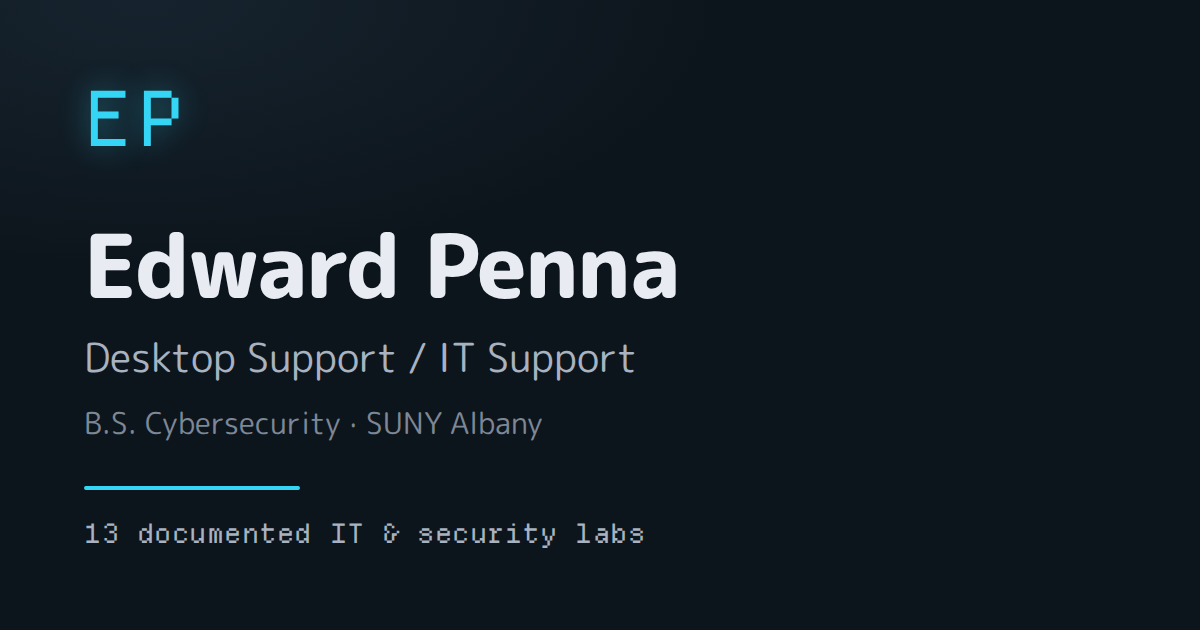
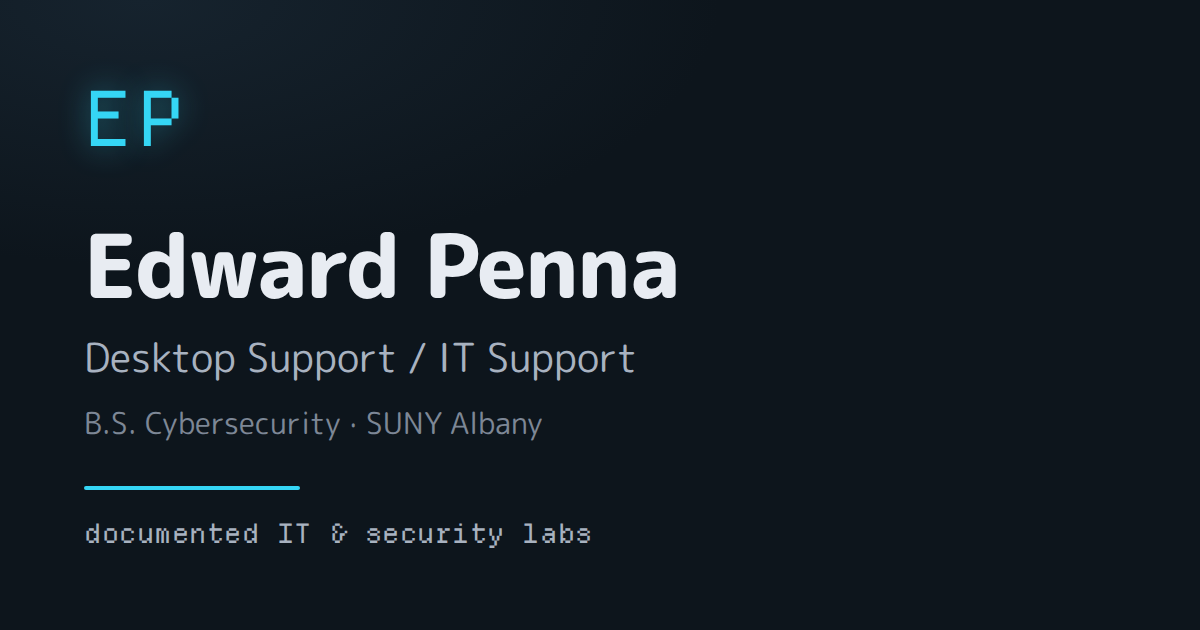
Copy that does not go stale, and a plainer name chip
Nine places shipped a hard count — "thirteen labs", "six builds", "13 entries"
— plus a claim the work was done by hand. Every one was a line that quietly
became wrong on the next push, and none of them look wrong while they are still
true. It was also a boast about an amount rather than a statement of what the
work is, which is not what the site should be saying on his behalf.

So publish.sh gains check 14 rather than a resolution: shipped prose may not
pair a number with labs/builds/projects, or claim it was built by hand or from
scratch. Proven red first — it found all eight static sites, including both
meta descriptions, which are the version a recruiter sees in a search result
and the last place a stale number should survive. Comments, project data and
this script are exempt; a gate that flags legitimate text gets skipped.

The ninth was invisible to any grep: the root cards' chip read "13 entries" and
was built by JavaScript at runtime. grid-test.mjs covers that half, along with
the pitch line and a word-count ceiling on About.

The About panel was 213 words in five paragraphs and read as machine-written.
Five drafts were written independently and critiqued; every one of them opened
on "Right now I'm building an osTicket helpdesk", which is the same trap — it
needs rewriting the week that lab is done. The version here is 125 words, names
nothing that expires, and carries the enthusiasm through what he is doing
[…]

Changed region(s): [[0.2158, 0.8143, 0.555, 0.8746], [0.0617, 0.8143, 0.185, 0.8746]]

diff --git a/index.html b/index.html
@@ -4,7 +4,7 @@
 <meta charset="utf-8">
 <meta name="viewport" content="width=device-width, initial-scale=1">
 <title>Edward Penna — Desktop Support &amp; IT</title>
-<meta name="description" content="Edward Penna — Desktop Support / IT Support. B.S. Cybersecurity, SUNY Albany. Thirteen documented IT and security labs: helpdesk ticketing, Active Directory, PowerShell, Linux, Docker, monitoring, backup/DR and security operations.">
+<meta name="description" content="Edward Penna — Desktop Support / IT Support. B.S. Cybersecurity, SUNY Albany. Documented IT and security labs: helpdesk ticketing, Active Directory, PowerShell, Linux, Docker, monitoring, backup/DR and security operations.">
 <meta name="author" content="Edward Penna">
 
 <!-- Absolute, because scrapers do not resolve relative og: values. If this ever
@@ -30,7 +30,7 @@
 <meta property="og:type" content="website">
 <meta property="og:url" content="https://wardoep.github.io/portfolio/">
 <meta property="og:title" content="Edward Penna — Desktop Support &amp; IT">
-<meta property="og:description" content="Desktop Support / IT Support. B.S. Cybersecurity, SUNY Albany. Thirteen IT and security labs, each documented as a reproducible runbook.">
+<meta property="og:description" content="Desktop Support / IT Support. B.S. Cybersecurity, SUNY Albany. IT and security labs, each documented as a reproducible runbook.">
 <meta property="og:image" content="https://wardoep.github.io/portfolio/assets/img/og-card.png">
 <meta property="og:image:width" content="1200">
 <meta property="og:image:height" content="630">
@@ -126,24 +126,12 @@
 
 <!-- ─── header ─────────────────────────────────────────────────────────── -->
 <header class="hud">
+  <!-- Name, then a small glyph. The hand-drawn avatar and the role line that
+       used to be here are gone: the reference for this is a plain account chip,
+       and "simpler" was the whole ask. Still a real button opening About. -->
   <button class="user" type="button" data-open="about" aria-label="Edward Penna — open About">
-    <span class="user__face">
-      <!-- Hand-drawn avatar. Edit the six values in :root to change it. -->
-      <svg viewBox="0 0 64 64" role="img" aria-hidden="true" focusable="false">
-        <rect class="av-bg" x="0" y="0" width="64" height="64" rx="10"/>
-        <ellipse class="av-skin" cx="32" cy="34" rx="17" ry="19"/>
-        <path class="av-ear" d="M15 32c-3 0-4 2-3.5 4.5S14 40 16 39zM49 32c3 0 4 2 3.5 4.5S50 40 48 39z"/>
-        <path class="av-hair" d="M14 30c0-11 8-17 18-17s18 6 18 17c0 0-2-7-8-8-4.5-.8-8 1.5-13 1-4-.4-6.5 1.6-8 4-1 1.6-1.3 3-1.3 3z"/>
-        <ellipse class="av-eye" cx="25" cy="34" rx="2.4" ry="3"/>
-        <ellipse class="av-eye" cx="39" cy="34" rx="2.4" ry="3"/>
-        <path class="av-brow" d="M21.5 28.5c2-1.4 5-1.4 7 0M35.5 28.5c2-1.4 5-1.4 7 0"/>
-        <path class="av-mouth" d="M27 43.5c2.6 2.4 7.4 2.4 10 0"/>
-      </svg>
-    </span>
-    <span class="user__plate">
-      <strong class="user__name">Edward Penna</strong>
-      <span class="user__role">Desktop Support / IT</span>
-    </span>
+    <span class="user__name">Edward Penna</span>
+    <svg class="ico user__glyph" viewBox="0 0 24 24" aria-hidden="true"><use href="#i-person"/></svg>
   </button>
 
 
@@ -227,11 +215,14 @@
     <h2 id="h-about">About</h2>
   </div>
   <div class="panel__body prose">
-    <p class="lead">Hi — I'm Edward.</p>
-    <p>I like the part of this work most people find annoying: something is broken, nobody knows why, and you have to work backwards until it makes sense. That instinct turned into a cybersecurity degree from the University at Albany, a summer on the front line of a hospital help desk, and a Linux server at home that I have been quietly keeping alive for a couple of years.</p>
-    <p>That server is where most of what I actually know came from. Not from tutorials — from a backup that didn't restore, a service that died quietly and stayed dead for two days before I noticed, a certificate that expired at the worst possible moment. Everything on this site is built the same way: stand it up, break it on purpose, fix it, then write it down well enough that I could rebuild it from the notes.</p>
-    <p>The other half of the job is people. I'm patient with someone who is frustrated with their computer, I explain things without making anyone feel stupid, and I would rather ask a question than guess and be wrong twice.</p>
-    <p>Right now I'm looking for a first full-time role in desktop or IT support, and studying for CompTIA Network+.</p>
+    <!-- Was five paragraphs and 230 words. It named a count of labs, so it went
+         out of date on every push, and it was built out of the constructions
+         that give generated text away: "Not from tutorials — from a backup
+         that…", a three-clause list, "The other half of the job is people."
+         Nothing here needs editing when the next repo lands. -->
+    <p class="lead">I build IT labs and write each one up so someone else could follow it. One's an osTicket helpdesk with SLAs and email piping that I've worked tickets through. There's usually another one half-built.</p>
+    <p>I've had a Linux server at home for a couple of years and it has to stay up. My first restic restore drill didn't restore anything. I fixed it and wrote down what I'd missed.</p>
+    <p>I'm after my first full-time job in desktop support or helpdesk. Degree's in cybersecurity from SUNY Albany and I'm studying for Network+. I did a summer at Broadridge on access reviews and audit prep, and before that I volunteered in IT at Stony Brook Hospital, mostly logins and broken hardware.</p>
     <p class="cta-row">
       <a class="btn btn--primary" href="resume.html">Read the résumé</a>
       <a class="btn" href="#/now">What I'm learning</a>
@@ -298,7 +289,7 @@
       <li>B.S. Cybersecurity, University at Albany, May 2025. Studying for CompTIA Network+.</li>
       <li>IT Support Volunteer, Stony Brook Hospital (summer 2023) — login, access, hardware and software issues, tracked through tickets.</li>
       <li>Summer Consultant, Broadridge (2024) — information security: access reviews and audit preparation.</li>
-      <li>Thirteen documented labs: osTicket helpdesk, Active Directory, PowerShell, Docker, monitoring, backup/DR and security operations.</li>
+      <li>Documented labs covering osTicket helpdesk, Active Directory, PowerShell, Docker, monitoring, backup/DR and security operations.</li>
       <li>A self-hosted Linux server running production-style services with real uptime requirements.</li>
     </ul>
   </div>
@@ -372,12 +363,17 @@
         <rect class="boot__warn-bar" x="11" y="9" width="2" height="6" rx="1"/>
         <rect class="boot__warn-bar" x="11" y="16.5" width="2" height="2" rx="1"/>
       </svg>
-      <span>NOTICE &mdash; EDWARD PENNA</span>
+      <span>NOTICE FROM EDWARD PENNA</span>
     </span>
+    <!-- The old body broke the count rule twice and claimed the work was done
+         by hand. "WORK CONTINUES DURING NORMAL OPERATION" says he is still
+         building without naming an amount, a date or a boast — and unlike
+         "NONE OF IT IS FINISHED", a hiring manager cannot read it as
+         "nothing works". -->
     <span class="boot__body">
-      EVERYTHING BEYOND THIS SCREEN WAS BUILT, BROKEN<br>
-      AND WRITTEN UP BY HAND. THIRTEEN LABS, SIX BUILDS,<br>
-      ONE SERVER THAT HAS TO STAY UP.
+      MOST OF THIS BROKE BEFORE IT WORKED.<br>
+      THE FIX IS WRITTEN DOWN SO IT CAN BE REPEATED.<br>
+      WORK CONTINUES DURING NORMAL OPERATION.
     </span>
     <span class="boot__also">Also online at</span>
     <span class="boot__url">github.com/wardoep</span>

diff --git a/assets/css/menu.css b/assets/css/menu.css
@@ -103,69 +103,46 @@ a { color: inherit; }
   padding: 10px clamp(12px, 2.5vw, 28px);
 }
 
-/* ── the identity tile ────────────────────────────────────────────────────
- * A portrait in a square, the way the reference puts the account in its own
- * corner tile. It used to be a soft white pill with two lines of text beside
- * it — rounded and pastel in a design that is otherwise hard rectangles, and
- * the one thing left on screen still speaking the old language.
+/* ── the name chip ────────────────────────────────────────────────────────
+ * A name and a small glyph in a flat box. It has been, in order: a soft pastel
+ * pill, then a portrait tile, then a miniature channel card — each one more
+ * elaborate than the last for something whose entire job is to say whose site
+ * this is and open About.
  *
- * It is a channel tile in miniature: same radius, same ink fill, same flip on
- * hover. The name stays, small, underneath — a console already knows who you
- * are and a visitor does not. */
+ * So: no portrait, no role line, no sheen. The 2px rule and the radius are the
+ * only things tying it to the wall, which is enough. */
 .user {
-  display: flex; align-items: center; gap: 11px;
-  padding: 8px 16px 8px 8px;
+  display: inline-flex; align-items: center; gap: 10px;
+  padding: 7px 12px;
   color: var(--card-projects-ink);
   background: var(--card-projects);
-  background-image: var(--card-sheen);
-  border: 3px solid var(--card-rule); border-radius: var(--r-tile);
+  border: 2px solid var(--card-rule); border-radius: var(--r-sm);
   cursor: pointer; font: inherit; text-align: left;
   position: relative;
   transition: transform var(--d-fast) var(--ease);
 }
+.user__glyph { width: 17px; height: 17px; flex: none; stroke-width: 2; opacity: .85; }
 .user::after {
   content: '';
-  position: absolute; inset: -3px;
+  position: absolute; inset: -2px;
   border-radius: inherit;
-  box-shadow: 0 0 0 3px var(--ground), 0 0 0 6px var(--card-rule),
-              0 10px 22px rgb(0 0 0 / .25);
+  box-shadow: 0 0 0 2px var(--ground), 0 0 0 4px var(--card-rule);
   opacity: 0; pointer-events: none;
   transition: opacity var(--d-fast) var(--ease);
 }
 .user:hover, .user:focus-visible { transform: translateY(-2px); }
 .user:hover::after, .user:focus-visible::after { opacity: 1; }
-.user:focus-visible { outline: 3px solid var(--card-projects-ink); outline-offset: -7px; }
+.user:focus-visible { outline: 3px solid var(--card-projects-ink); outline-offset: -6px; }
 
-/* A circle, like every other card's art on this page. The stencil inside is
-   unchanged — only the frame around it moved. */
-.user__face {
-  width: 44px; height: 44px; flex: none;
-  border-radius: 50%; overflow: hidden;
-  color: var(--card-projects);
-  background: var(--card-projects-ink);
-}
-.user__face svg { display: block; width: 100%; height: 100%; }
+/* The seven .av-* rules and the eight-shape portrait they styled are deleted
+   along with the markup. Leaving a stylesheet full of selectors for elements
+   nothing emits is worse than losing the drawing — it reads as live code and
+   the next person to touch this file has to prove otherwise. */
 
-/* The avatar is a white stencil, not a colour portrait. The eight shapes are
-   the same as before — only these six rules changed — so the geometry is
-   untouched and the whole thing inverts with its tile via currentColor. */
-.av-bg    { fill: none; }
-.av-skin  { fill: none; stroke: currentColor; stroke-width: 2.4; }
-.av-ear   { fill: none; stroke: currentColor; stroke-width: 2.2; }
-.av-hair  { fill: currentColor; }
-.av-eye   { fill: currentColor; }
-.av-brow  { fill: none; stroke: currentColor; stroke-width: 2.4; stroke-linecap: round; }
-.av-mouth { fill: none; stroke: currentColor; stroke-width: 2.4; stroke-linecap: round; }
-
-.user__plate { display: flex; flex-direction: column; align-items: flex-start; line-height: 1.3; }
-.user__name  {
+.user__name {
   font-family: var(--font-pix);
-  font-size: 13px; letter-spacing: .07em; text-transform: uppercase;
-  color: inherit;
-}
-.user__role {
-  font-size: var(--fs-micro); letter-spacing: .01em;
-  color: inherit; opacity: .72;
+  font-size: 14px; letter-spacing: .06em;
+  color: inherit; white-space: nowrap;
 }
 
 .hud__right { display: flex; align-items: center; gap: 12px; }

diff --git a/assets/js/grid.js b/assets/js/grid.js
@@ -52,7 +52,7 @@ function captionForChannel(c) {
  * The old "Open" pill is gone — it was hover-only so it never appeared on a
  * touch screen, it said nothing a <button> does not already announce, and it
  * cost 21px of height in a card that was overflowing by 8. */
-function tile({ id, iconId, label, sub, chips, caption, route }) {
+function tile({ id, iconId, label, sub, chips, reserveChips, caption, route }) {
   const slot = el('div', 'slot');
 
   const btn = el('button', 'chan');
@@ -67,16 +67,19 @@ function tile({ id, iconId, label, sub, chips, caption, route }) {
   const text = el('span', 'chan__text');
   text.appendChild(el('span', 'chan__label', label));
   if (sub) text.appendChild(el('span', 'chan__count', sub));
-  /* Always appended, even with nothing in it. The text block is vertically
-     centred, so a card missing this row centres its name 11px lower than its
-     neighbours' — which on a wall of three reads as one card being slightly
-     wrong rather than as a missing chip. */
-  const row = el('span', 'chan__chips');
-  /* decoration: the stack is already in the panel, and read aloud after the
-     name it is four more nouns before you learn what the thing does */
-  row.setAttribute('aria-hidden', 'true');
-  (chips || []).forEach((c) => row.appendChild(el('span', 'chan__chip', c)));
-  text.appendChild(row);
+  /* Appended even when empty, but only on a level where SOME card has chips.
+     The text block is vertically centred, so a card missing this row centres
+     its name lower than its neighbours' — one card looking slightly wrong
+     rather than one chip missing. On a level where nobody has chips there is
+     nothing to line up with, and reserving the space just leaves a gap. */
+  if (reserveChips) {
+    const row = el('span', 'chan__chips');
+    /* decoration: the stack is already in the panel, and read aloud after the
+       name it is four more nouns before you learn what the thing does */
+    row.setAttribute('aria-hidden', 'true');
+    (chips || []).forEach((c) => row.appendChild(el('span', 'chan__chip', c)));
+    text.appendChild(row);
+  }
   btn.appendChild(text);
 
   slot.appendChild(btn);
@@ -127,9 +130,13 @@ function centreLastRow(host, count, cols) {
  * forward-looking date that has quietly gone past, and "available now" cannot
  * expire. */
 const PITCH_LEAD = 'Desktop Support / IT — available now';
+/* No count. It named a number of labs and a number of builds, which meant two
+   sentences on the landing screen went quietly out of date every time a repo
+   was pushed, and made the page brag about an amount rather than say what the
+   work is. publish.sh check 14 fails the build if one comes back. */
 const PITCH_SUB =
-  'B.S. Cybersecurity, University at Albany. Thirteen labs and six builds, ' +
-  'each one stood up, broken on purpose, and written up well enough to rebuild from.';
+  'B.S. Cybersecurity, University at Albany. I build IT and security labs at home, ' +
+  'break them on purpose, and write down what it took to fix them.';
 
 const folderLabel = (id) =>
   (data.folders || []).find((f) => f.id === id)?.label || '';
@@ -145,7 +152,9 @@ function render() {
   if (sub) {
     const c = channelById(level.id);
     const ps = channelProjects(c);
+    const anyChips = ps.some((p) => (p.stack || []).length);
     tiles = ps.map((p) => tile({
+      reserveChips: anyChips,
       id: p.id,
       iconId: 'i-' + (p.icon || 'default'),
       label: p.title || p.id,
@@ -157,18 +166,19 @@ function render() {
       route: 'project/' + p.id,
     }));
   } else {
-    tiles = channels().map((c) => {
-      const n = channelProjects(c).length;
-      return tile({
-        id: c.id,
-        iconId: 'i-' + (c.icon || 'default'),
-        label: c.label,
-        sub: c.kind || c.blurb || '',
-        chips: n ? [`${n} ${n === 1 ? 'entry' : 'entries'}`] : [],
-        caption: captionForChannel(c),
-        route: c.id,
-      });
-    });
+    /* No count chip. It read "13 entries", which was derived from the data and
+       so never went stale — but a number was still the wrong thing to put on
+       the landing screen. The tile should say what the channel IS, not how much
+       is currently in it. */
+    tiles = channels().map((c) => tile({
+      id: c.id,
+      iconId: 'i-' + (c.icon || 'default'),
+      label: c.label,
+      sub: c.kind || c.blurb || '',
+      chips: [],
+      caption: captionForChannel(c),
+      route: c.id,
+    }));
   }
 
   tiles.forEach((t) => host.appendChild(t));

diff --git a/assets/css/tokens.css b/assets/css/tokens.css
@@ -156,13 +156,13 @@
 
   --dock-h: 96px;   /* the bar's real height; the grid's width maths
                        reads this, so the two must not drift */
-  --hud-h:  86px;   /* The identity card is horizontal now — portrait BESIDE the
-                       type rather than above it — so the header is shorter than
-                       the 102px the stacked version needed. The grid subtracts
-                       this token, so if the header's real height ever drifts
-                       from it the bottom row clips in silence. That is not
-                       hypothetical: it is the bug this token exists to prevent
-                       and the one the fit gate now catches. */
+  --hud-h:  64px;   /* MEASURED, not guessed: with the portrait and the role line
+                       gone the header needs 60px, and the extra 4 is clearance
+                       for the chip's hover ring. It has been 102, then 86, then
+                       this — once per redesign of the chip, because the grid
+                       subtracts this token to derive its own height and a token
+                       that drifts from the real header clips the bottom row in
+                       silence. That is the bug the fit gate exists to catch. */
 
   /* Everything in the stage that is NOT the grid: the pitch line, the level
      title, the closing CTA. Written by grid.js from a ResizeObserver rather

diff --git a/resume.html b/resume.html
@@ -20,7 +20,7 @@
 <meta property="og:url" content="https://wardoep.github.io/portfolio/resume.html">
 <meta property="og:site_name" content="Edward Penna">
 <meta property="og:title" content="Edward Penna — Résumé · Desktop Support / IT Support">
-<meta property="og:description" content="B.S. Cybersecurity, University at Albany. Hands-on support experience plus thirteen IT and security labs documented as reproducible runbooks.">
+<meta property="og:description" content="B.S. Cybersecurity, University at Albany. Hands-on support experience plus IT and security labs documented as reproducible runbooks.">
 <meta property="og:image" content="https://wardoep.github.io/portfolio/assets/img/og-card.png">
 <meta property="og:image:width" content="1200">
 <meta property="og:image:height" content="630">
